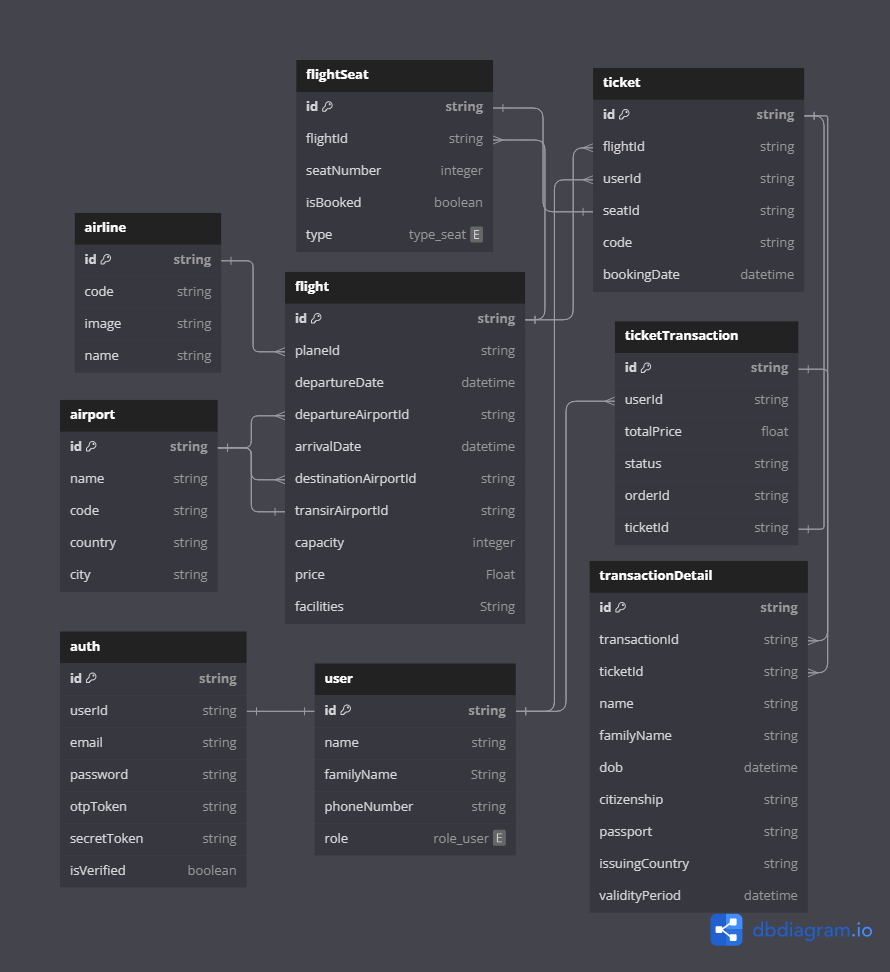
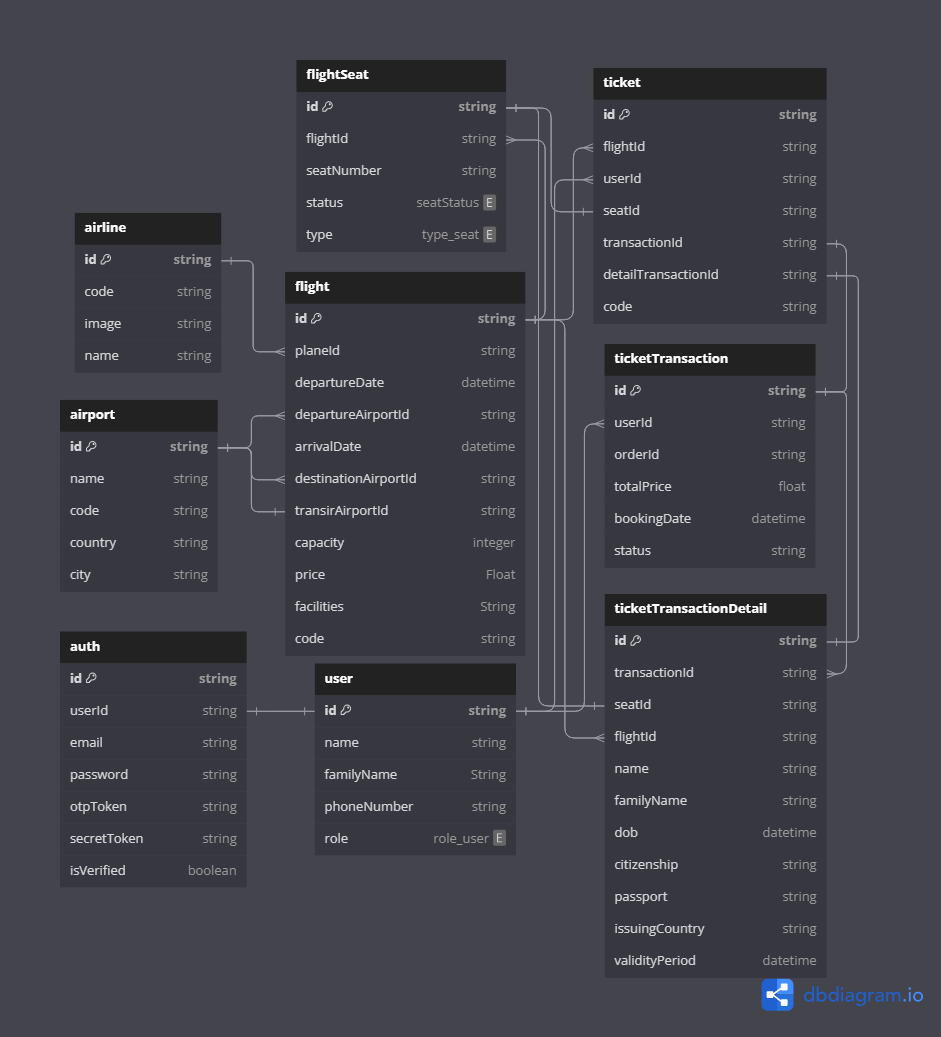
update: database schema & initial config snap

Changed region(s): [[0.0607, 0.0309, 0.9708, 0.9877], [0.5461, 0.8333, 0.5764, 0.8642]]

diff --git a/prisma/seeder/seeder.js b/prisma/seeder/seeder.js
@@ -397,9 +397,6 @@ async function main() {
                             tickets: {
                                 create: {
                                     code: randomUUID(),
-                                    bookingDate: new Date(
-                                        "2024-06-01T10:00:00Z"
-                                    ),
                                     flight: {
                                         connect: { id: flight.id },
                                     },

diff --git a/controllers/transaction.js b/controllers/transaction.js
@@ -65,6 +65,8 @@ const getTransaction = async (req, res, next) => {
     }
 };
 
+const createTransaction = async (req, res, next) => {};
+
 //! on proggress
 const updateTransaction = async (req, res, next) => {
     try {
